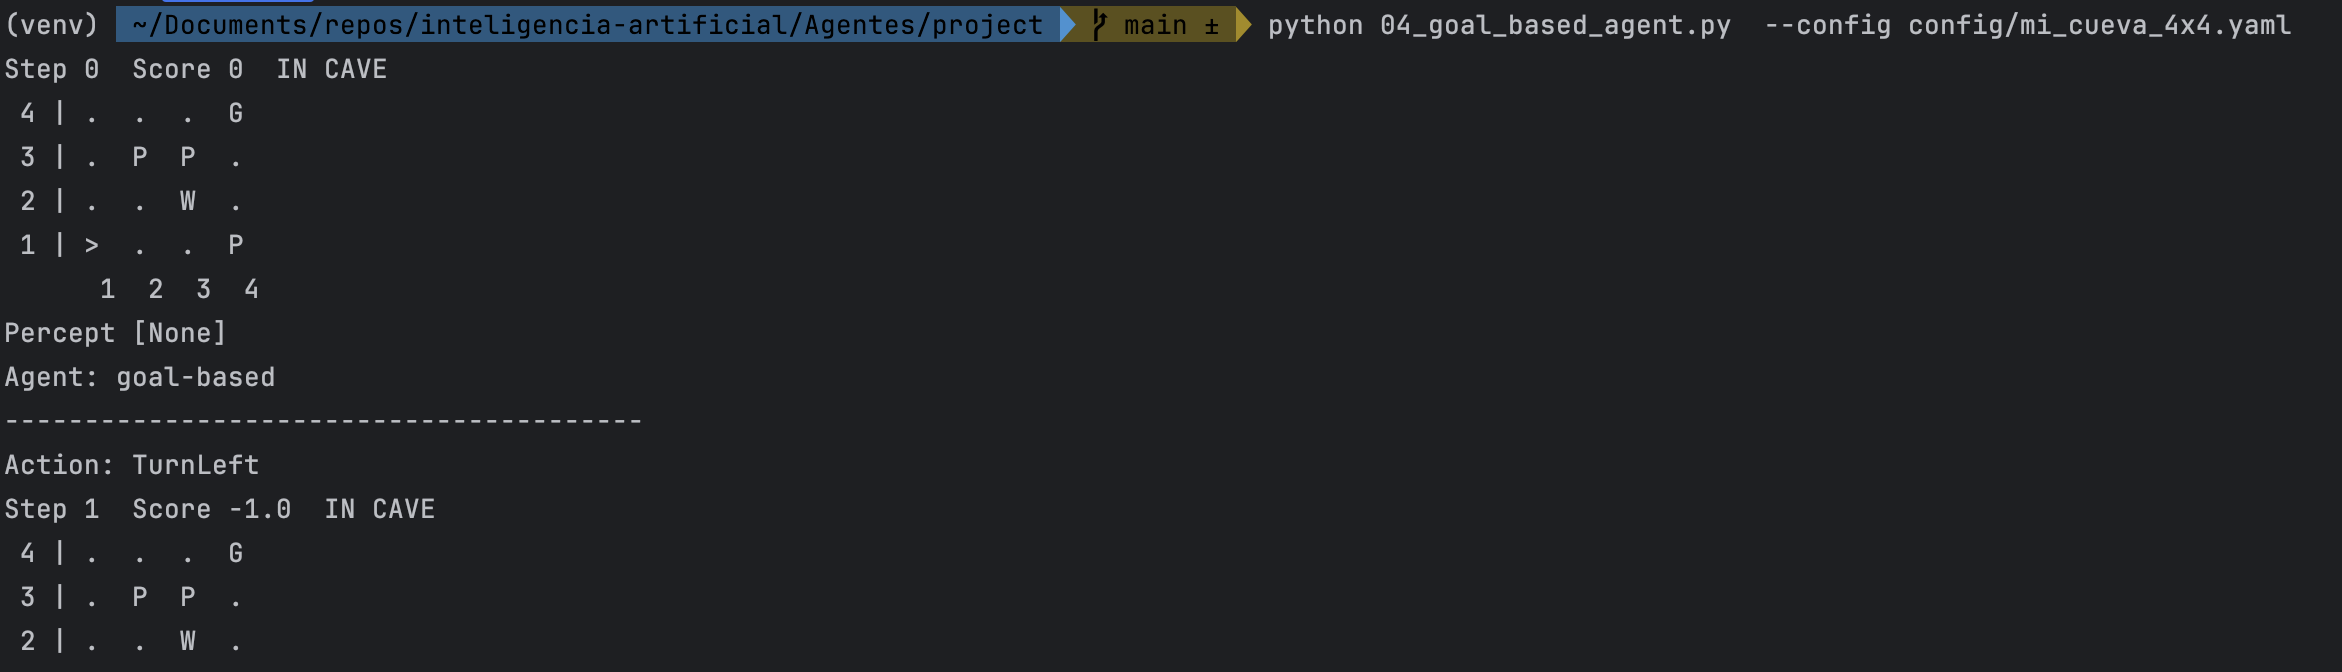
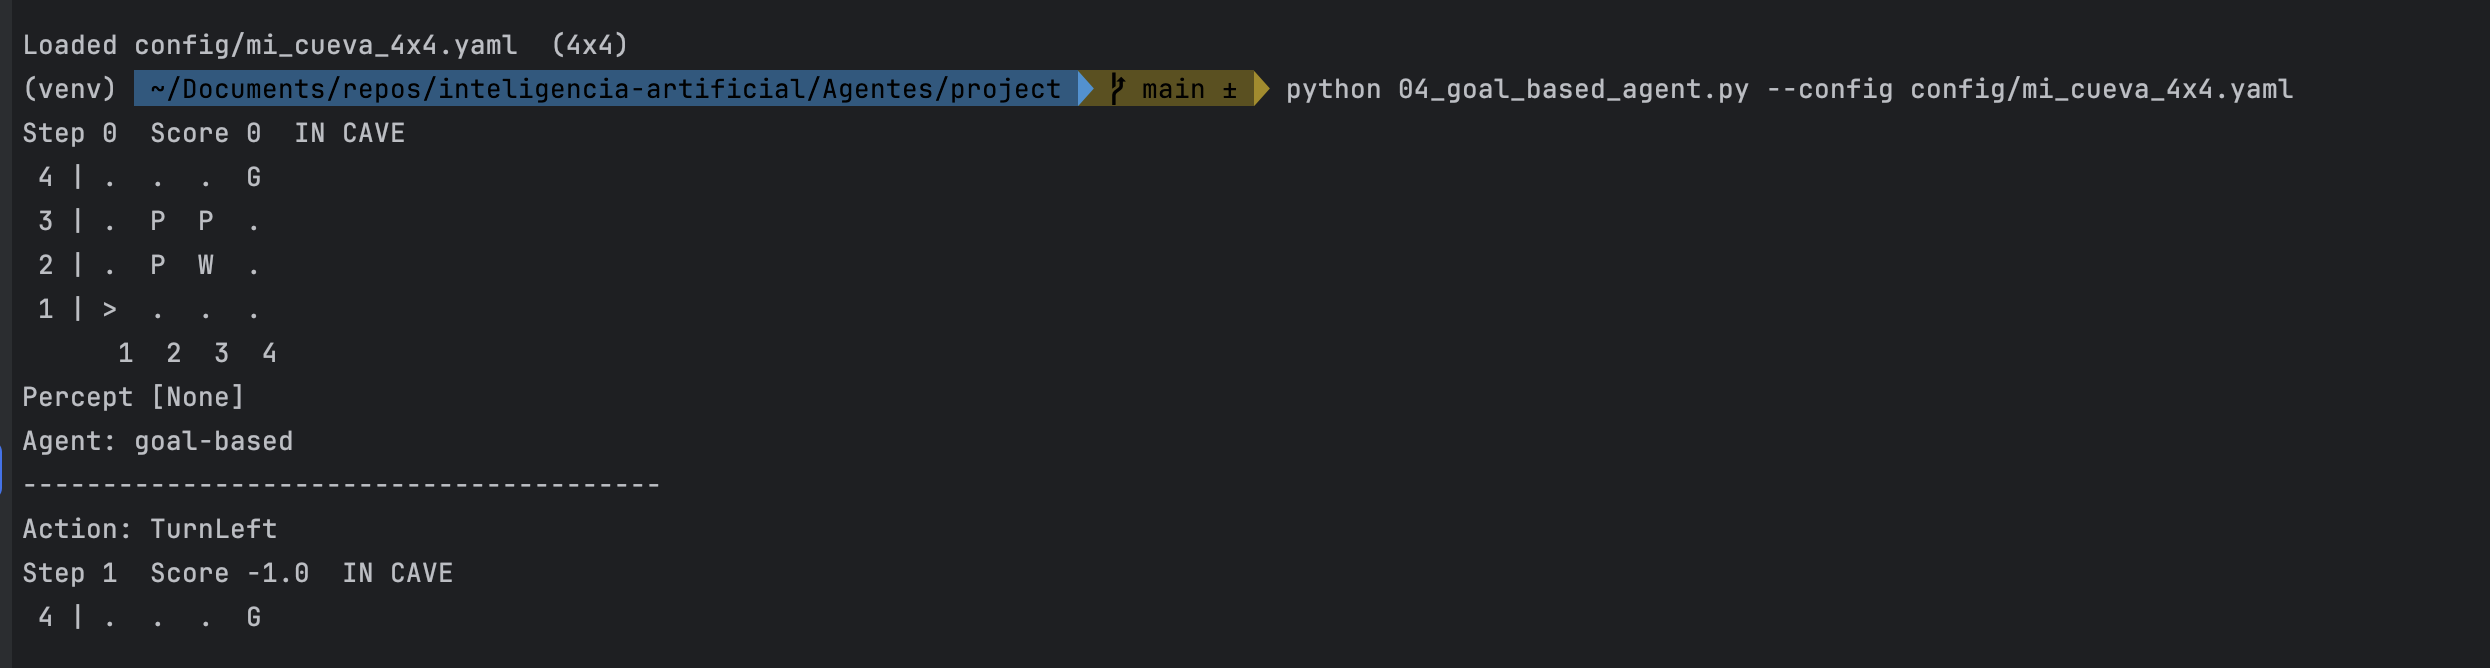
tarea 2 actualizada

diff --git a/02_Agentes/ejercicio_1/resultado.md b/02_Agentes/ejercicio_1/resultado.md
@@ -1,7 +1,3 @@
-
-   - ¿Cómo cambia el resultado del **agente basado en modelo** si acercas o alejas
-     un pit de la casilla inicial?
-
 # Introducción
 
 En mi mapa, yo coloque todos los elementos en el centro de manera que cualquier agente siempre pudiera percibir algo en cualquier cuadricula, excepto la inicial.
@@ -25,4 +21,4 @@ Despues de ejecutar todos los comandos descritos en las intrucciones se obtuvier
   - ¿Cómo cambia el resultado del **agente basado en modelo** si acercas o alejas
      un pit de la casilla inicial?
 
-  El modelo inicia su funcionamiento normal, avanza a una casilla y detecta el peligro, al hacer eso ya no agrega elementos al camino seguro y se queda sin lugares que recorrer, por lo que solo realiza su accion por default.
+  El modelo inicia su funcionamiento normal, avanza a una casilla y detecta el peligro, al hacer eso ya no agrega elementos al camino seguro y se queda sin lugares que recorrer, por lo que solo realiza su accion por default y se queda atrapado en la casilla.
